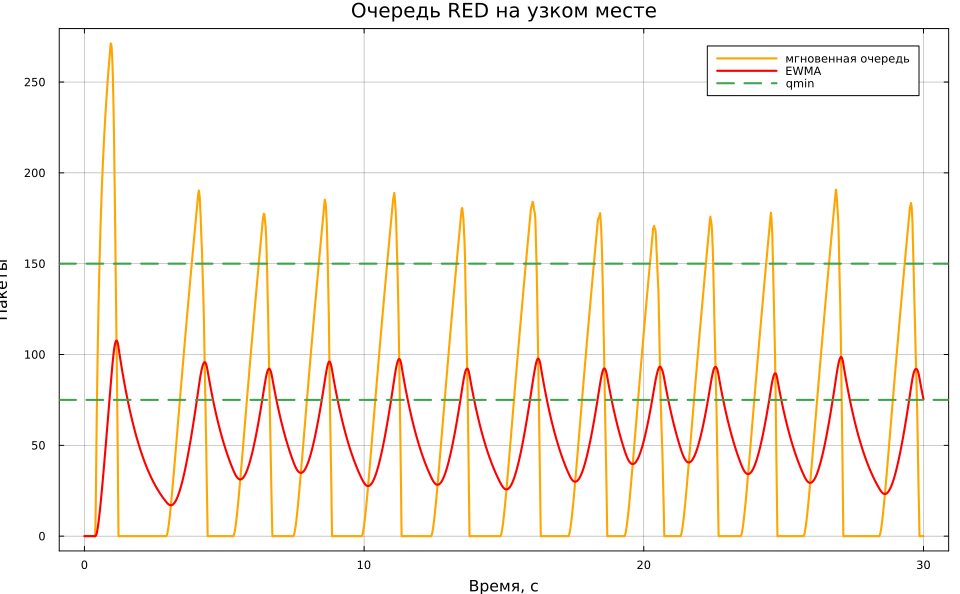
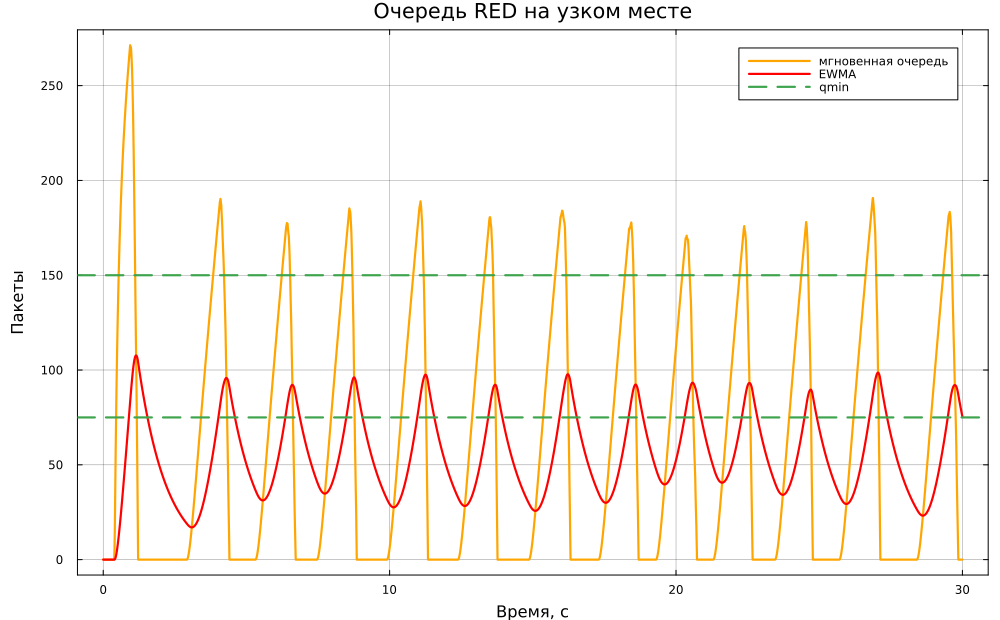
fix(lab04): render executed notebooks and correct plot margins

diff --git a/labs/lab04/project/markdown/01_tcp_red/01_tcp_red.html b/labs/lab04/project/markdown/01_tcp_red/01_tcp_red.html
@@ -7,7 +7,7 @@
 <meta name="viewport" content="width=device-width, initial-scale=1.0, user-scalable=yes">
 
 
-<title>tcp_red</title>
+<title>TCP/Reno и очередь RED</title>
 <style>
 
 span.smallcaps{font-variant: small-caps;}
@@ -2228,7 +2228,7 @@ vertical-align: -.125em;
 
 
 <p><strong>Цель:</strong> исследовать окно перегрузки TCP/Reno и состояние очереди RED в многопоточной сети с узким местом 20 Мбит/с.</p>
-<div id="2" class="cell" data-execution_count="1">
+<div id="cell-2" class="cell" data-quarto-private-1="{&quot;key&quot;:&quot;execution&quot;,&quot;value&quot;:{&quot;iopub.execute_input&quot;:&quot;2026-08-31T09:40:03.998000Z&quot;,&quot;iopub.status.busy&quot;:&quot;2026-08-31T09:40:03.994000Z&quot;,&quot;iopub.status.idle&quot;:&quot;2026-08-31T09:40:21.037000Z&quot;,&quot;shell.execute_reply&quot;:&quot;2026-08-31T09:40:21.037000Z&quot;}}" data-execution_count="1">
 <div class="code-copy-outer-scaffold"><div class="sourceCode cell-code" id="cb1"><pre class="sourceCode julia code-with-copy"><code class="sourceCode julia"><span id="cb1-1"><a href="#cb1-1" aria-hidden="true" tabindex="-1"></a><span class="im">using</span> <span class="bu">DrWatson</span></span>
 <span id="cb1-2"><a href="#cb1-2" aria-hidden="true" tabindex="-1"></a><span class="pp">@quickactivate</span> <span class="st">&quot;project&quot;</span></span>
 <span id="cb1-3"><a href="#cb1-3" aria-hidden="true" tabindex="-1"></a><span class="cn">ENV</span>[<span class="st">&quot;GKSwstype&quot;</span>] <span class="op">=</span> <span class="st">&quot;100&quot;</span></span>
@@ -2260,65 +2260,53 @@ vertical-align: -.125em;
 <span id="cb1-29"><a href="#cb1-29" aria-hidden="true" tabindex="-1"></a><span class="fu">println</span>(<span class="st">&quot;Потоков: </span><span class="sc">$</span>(network.flows)<span class="st">, узкое место: </span><span class="sc">$</span>(network.capacity_bps<span class="op">/</span><span class="fl">1e6</span>)<span class="st"> Мбит/с&quot;</span>)</span>
 <span id="cb1-30"><a href="#cb1-30" aria-hidden="true" tabindex="-1"></a><span class="fu">show</span>(summary; allrows<span class="op">=</span><span class="cn">true</span>, allcols<span class="op">=</span><span class="cn">true</span>); <span class="fu">println</span>()</span>
 <span id="cb1-31"><a href="#cb1-31" aria-hidden="true" tabindex="-1"></a></span>
-<span id="cb1-32"><a href="#cb1-32" aria-hidden="true" tabindex="-1"></a><span class="fu">default</span>(fontfamily<span class="op">=</span><span class="st">&quot;DejaVu Sans&quot;</span>, linewidth<span class="op">=</span><span class="fl">2.2</span>, framestyle<span class="op">=:</span>box, gridalpha<span class="op">=</span><span class="fl">0.22</span>)</span>
-<span id="cb1-33"><a href="#cb1-33" aria-hidden="true" tabindex="-1"></a>p1 <span class="op">=</span> <span class="fu">plot</span>(trajectory.time, trajectory.cwnd_first; label<span class="op">=</span><span class="st">&quot;первый поток&quot;</span>,</span>
-<span id="cb1-34"><a href="#cb1-34" aria-hidden="true" tabindex="-1"></a>    xlabel<span class="op">=</span><span class="st">&quot;Время, с&quot;</span>, ylabel<span class="op">=</span><span class="st">&quot;cwnd, пакеты&quot;</span>, title<span class="op">=</span><span class="st">&quot;Окно перегрузки TCP/Reno&quot;</span>,</span>
-<span id="cb1-35"><a href="#cb1-35" aria-hidden="true" tabindex="-1"></a>    size<span class="op">=</span>(<span class="fl">1000</span>,<span class="fl">620</span>), color<span class="op">=:</span>blue)</span>
-<span id="cb1-36"><a href="#cb1-36" aria-hidden="true" tabindex="-1"></a><span class="fu">plot!</span>(p1, trajectory.time, trajectory.cwnd_mean; label<span class="op">=</span><span class="st">&quot;среднее по потокам&quot;</span>, color<span class="op">=:</span>black)</span>
-<span id="cb1-37"><a href="#cb1-37" aria-hidden="true" tabindex="-1"></a><span class="fu">savefig</span>(p1, <span class="fu">plotsdir</span>(name, <span class="st">&quot;cwnd.png&quot;</span>))</span>
-<span id="cb1-38"><a href="#cb1-38" aria-hidden="true" tabindex="-1"></a></span>
-<span id="cb1-39"><a href="#cb1-39" aria-hidden="true" tabindex="-1"></a>p2 <span class="op">=</span> <span class="fu">plot</span>(trajectory.time, trajectory.queue; label<span class="op">=</span><span class="st">&quot;мгновенная очередь&quot;</span>,</span>
-<span id="cb1-40"><a href="#cb1-40" aria-hidden="true" tabindex="-1"></a>    xlabel<span class="op">=</span><span class="st">&quot;Время, с&quot;</span>, ylabel<span class="op">=</span><span class="st">&quot;Пакеты&quot;</span>, title<span class="op">=</span><span class="st">&quot;Очередь RED на узком месте&quot;</span>,</span>
-<span id="cb1-41"><a href="#cb1-41" aria-hidden="true" tabindex="-1"></a>    size<span class="op">=</span>(<span class="fl">1000</span>,<span class="fl">620</span>), color<span class="op">=:</span>orange)</span>
-<span id="cb1-42"><a href="#cb1-42" aria-hidden="true" tabindex="-1"></a><span class="fu">plot!</span>(p2, trajectory.time, trajectory.average_queue; label<span class="op">=</span><span class="st">&quot;EWMA&quot;</span>, color<span class="op">=:</span>red)</span>
-<span id="cb1-43"><a href="#cb1-43" aria-hidden="true" tabindex="-1"></a><span class="fu">hline!</span>(p2, [red.qmin, red.qmax]; label<span class="op">=</span>[<span class="st">&quot;qmin&quot;</span> <span class="st">&quot;qmax&quot;</span>], linestyle<span class="op">=:</span>dash)</span>
-<span id="cb1-44"><a href="#cb1-44" aria-hidden="true" tabindex="-1"></a><span class="fu">savefig</span>(p2, <span class="fu">plotsdir</span>(name, <span class="st">&quot;red_queue.png&quot;</span>))</span>
-<span id="cb1-45"><a href="#cb1-45" aria-hidden="true" tabindex="-1"></a></span>
-<span id="cb1-46"><a href="#cb1-46" aria-hidden="true" tabindex="-1"></a>p3 <span class="op">=</span> <span class="fu">plot</span>(trajectory.time, trajectory.drop_probability; label<span class="op">=</span><span class="st">&quot;p(t)&quot;</span>,</span>
-<span id="cb1-47"><a href="#cb1-47" aria-hidden="true" tabindex="-1"></a>    xlabel<span class="op">=</span><span class="st">&quot;Время, с&quot;</span>, ylabel<span class="op">=</span><span class="st">&quot;Вероятность&quot;</span>, title<span class="op">=</span><span class="st">&quot;Вероятность раннего сброса RED&quot;</span>,</span>
-<span id="cb1-48"><a href="#cb1-48" aria-hidden="true" tabindex="-1"></a>    size<span class="op">=</span>(<span class="fl">1000</span>,<span class="fl">620</span>), color<span class="op">=:</span>purple)</span>
-<span id="cb1-49"><a href="#cb1-49" aria-hidden="true" tabindex="-1"></a><span class="fu">savefig</span>(p3, <span class="fu">plotsdir</span>(name, <span class="st">&quot;drop_probability.png&quot;</span>))</span>
-<span id="cb1-50"><a href="#cb1-50" aria-hidden="true" tabindex="-1"></a></span>
-<span id="cb1-51"><a href="#cb1-51" aria-hidden="true" tabindex="-1"></a>p4 <span class="op">=</span> <span class="fu">plot</span>(trajectory.time, trajectory.throughput_mbps; label<span class="op">=</span><span class="st">&quot;пропускная способность&quot;</span>,</span>
-<span id="cb1-52"><a href="#cb1-52" aria-hidden="true" tabindex="-1"></a>    xlabel<span class="op">=</span><span class="st">&quot;Время, с&quot;</span>, ylabel<span class="op">=</span><span class="st">&quot;Мбит/с&quot;</span>, title<span class="op">=</span><span class="st">&quot;Использование узкого места&quot;</span>,</span>
-<span id="cb1-53"><a href="#cb1-53" aria-hidden="true" tabindex="-1"></a>    size<span class="op">=</span>(<span class="fl">1000</span>,<span class="fl">620</span>), color<span class="op">=:</span>green)</span>
-<span id="cb1-54"><a href="#cb1-54" aria-hidden="true" tabindex="-1"></a><span class="fu">hline!</span>(p4, [network.capacity_bps<span class="op">/</span><span class="fl">1e6</span>]; label<span class="op">=</span><span class="st">&quot;20 Мбит/с&quot;</span>, linestyle<span class="op">=:</span>dash, color<span class="op">=:</span>black)</span>
-<span id="cb1-55"><a href="#cb1-55" aria-hidden="true" tabindex="-1"></a><span class="fu">savefig</span>(p4, <span class="fu">plotsdir</span>(name, <span class="st">&quot;throughput.png&quot;</span>))</span></code></pre></div><button title="Copy to Clipboard" class="code-copy-button"><i class="bi"></i></button></div>
+<span id="cb1-32"><a href="#cb1-32" aria-hidden="true" tabindex="-1"></a><span class="fu">default</span>(fontfamily<span class="op">=</span><span class="st">&quot;DejaVu Sans&quot;</span>, linewidth<span class="op">=</span><span class="fl">2.2</span>, framestyle<span class="op">=:</span>box, gridalpha<span class="op">=</span><span class="fl">0.22</span>,</span>
+<span id="cb1-33"><a href="#cb1-33" aria-hidden="true" tabindex="-1"></a>    left_margin<span class="op">=</span><span class="fl">5</span> <span class="op">*</span> Plots.mm)</span>
+<span id="cb1-34"><a href="#cb1-34" aria-hidden="true" tabindex="-1"></a>p1 <span class="op">=</span> <span class="fu">plot</span>(trajectory.time, trajectory.cwnd_first; label<span class="op">=</span><span class="st">&quot;первый поток&quot;</span>,</span>
+<span id="cb1-35"><a href="#cb1-35" aria-hidden="true" tabindex="-1"></a>    xlabel<span class="op">=</span><span class="st">&quot;Время, с&quot;</span>, ylabel<span class="op">=</span><span class="st">&quot;cwnd, пакеты&quot;</span>, title<span class="op">=</span><span class="st">&quot;Окно перегрузки TCP/Reno&quot;</span>,</span>
+<span id="cb1-36"><a href="#cb1-36" aria-hidden="true" tabindex="-1"></a>    size<span class="op">=</span>(<span class="fl">1000</span>,<span class="fl">620</span>), color<span class="op">=:</span>blue)</span>
+<span id="cb1-37"><a href="#cb1-37" aria-hidden="true" tabindex="-1"></a><span class="fu">plot!</span>(p1, trajectory.time, trajectory.cwnd_mean; label<span class="op">=</span><span class="st">&quot;среднее по потокам&quot;</span>, color<span class="op">=:</span>black)</span>
+<span id="cb1-38"><a href="#cb1-38" aria-hidden="true" tabindex="-1"></a><span class="fu">savefig</span>(p1, <span class="fu">plotsdir</span>(name, <span class="st">&quot;cwnd.png&quot;</span>))</span>
+<span id="cb1-39"><a href="#cb1-39" aria-hidden="true" tabindex="-1"></a></span>
+<span id="cb1-40"><a href="#cb1-40" aria-hidden="true" tabindex="-1"></a>p2 <span class="op">=</span> <span class="fu">plot</span>(trajectory.time, trajectory.queue; label<span class="op">=</span><span class="st">&quot;мгновенная очередь&quot;</span>,</span>
+<span id="cb1-41"><a href="#cb1-41" aria-hidden="true" tabindex="-1"></a>    xlabel<span class="op">=</span><span class="st">&quot;Время, с&quot;</span>, ylabel<span class="op">=</span><span class="st">&quot;Пакеты&quot;</span>, title<span class="op">=</span><span class="st">&quot;Очередь RED на узком месте&quot;</span>,</span>
+<span id="cb1-42"><a href="#cb1-42" aria-hidden="true" tabindex="-1"></a>    size<span class="op">=</span>(<span class="fl">1000</span>,<span class="fl">620</span>), color<span class="op">=:</span>orange)</span>
+<span id="cb1-43"><a href="#cb1-43" aria-hidden="true" tabindex="-1"></a><span class="fu">plot!</span>(p2, trajectory.time, trajectory.average_queue; label<span class="op">=</span><span class="st">&quot;EWMA&quot;</span>, color<span class="op">=:</span>red)</span>
+<span id="cb1-44"><a href="#cb1-44" aria-hidden="true" tabindex="-1"></a><span class="fu">hline!</span>(p2, [red.qmin, red.qmax]; label<span class="op">=</span>[<span class="st">&quot;qmin&quot;</span> <span class="st">&quot;qmax&quot;</span>], linestyle<span class="op">=:</span>dash)</span>
+<span id="cb1-45"><a href="#cb1-45" aria-hidden="true" tabindex="-1"></a><span class="fu">savefig</span>(p2, <span class="fu">plotsdir</span>(name, <span class="st">&quot;red_queue.png&quot;</span>))</span>
+<span id="cb1-46"><a href="#cb1-46" aria-hidden="true" tabindex="-1"></a></span>
+<span id="cb1-47"><a href="#cb1-47" aria-hidden="true" tabindex="-1"></a>p3 <span class="op">=</span> <span class="fu">plot</span>(trajectory.time, trajectory.drop_probability; label<span class="op">=</span><span class="st">&quot;p(t)&quot;</span>,</span>
+<span id="cb1-48"><a href="#cb1-48" aria-hidden="true" tabindex="-1"></a>    xlabel<span class="op">=</span><span class="st">&quot;Время, с&quot;</span>, ylabel<span class="op">=</span><span class="st">&quot;Вероятность&quot;</span>, title<span class="op">=</span><span class="st">&quot;Вероятность раннего сброса RED&quot;</span>,</span>
+<span id="cb1-49"><a href="#cb1-49" aria-hidden="true" tabindex="-1"></a>    size<span class="op">=</span>(<span class="fl">1000</span>,<span class="fl">620</span>), color<span class="op">=:</span>purple)</span>
+<span id="cb1-50"><a href="#cb1-50" aria-hidden="true" tabindex="-1"></a><span class="fu">savefig</span>(p3, <span class="fu">plotsdir</span>(name, <span class="st">&quot;drop_probability.png&quot;</span>))</span>
+<span id="cb1-51"><a href="#cb1-51" aria-hidden="true" tabindex="-1"></a></span>
+<span id="cb1-52"><a href="#cb1-52" aria-hidden="true" tabindex="-1"></a>p4 <span class="op">=</span> <span class="fu">plot</span>(trajectory.time, trajectory.throughput_mbps; label<span class="op">=</span><span class="st">&quot;пропускная способность&quot;</span>,</span>
+<span id="cb1-53"><a href="#cb1-53" aria-hidden="true" tabindex="-1"></a>    xlabel<span class="op">=</span><span class="st">&quot;Время, с&quot;</span>, ylabel<span class="op">=</span><span class="st">&quot;Мбит/с&quot;</span>, title<span class="op">=</span><span class="st">&quot;Использование узкого места&quot;</span>,</span>
+<span id="cb1-54"><a href="#cb1-54" aria-hidden="true" tabindex="-1"></a>    size<span class="op">=</span>(<span class="fl">1000</span>,<span class="fl">620</span>), color<span class="op">=:</span>green)</span>
+<span id="cb1-55"><a href="#cb1-55" aria-hidden="true" tabindex="-1"></a><span class="fu">hline!</span>(p4, [network.capacity_bps<span class="op">/</span><span class="fl">1e6</span>]; label<span class="op">=</span><span class="st">&quot;20 Мбит/с&quot;</span>, linestyle<span class="op">=:</span>dash, color<span class="op">=:</span>black)</span>
+<span id="cb1-56"><a href="#cb1-56" aria-hidden="true" tabindex="-1"></a><span class="fu">savefig</span>(p4, <span class="fu">plotsdir</span>(name, <span class="st">&quot;throughput.png&quot;</span>))</span></code></pre></div><button title="Copy to Clipboard" class="code-copy-button"><i class="bi"></i></button></div>
 <div class="cell-output cell-output-stdout">
 <div class="ansi-escaped-output">
-<pre><span class="ansi-bright-green-fg ansi-bold">Precompiling</span> DrWatson...
-    255.8 ms<span class="ansi-green-fg">  ✓ </span><span class="ansi-bright-black-fg">ScopedValues</span>
-   1775.6 ms<span class="ansi-green-fg">  ✓ </span><span class="ansi-bright-black-fg">FileIO</span>
-  12948.1 ms<span class="ansi-green-fg">  ✓ </span><span class="ansi-bright-black-fg">JLD2</span>
-    804.9 ms<span class="ansi-green-fg">  ✓ </span><span class="ansi-bright-black-fg">JLD2 → UnPackExt</span>
-    918.0 ms<span class="ansi-green-fg">  ✓ </span>DrWatson
-  5 dependencies successfully precompiled in 17 seconds. 37 already precompiled.
-<span class="ansi-bright-green-fg ansi-bold">Precompiling</span> DataFrames...
-  15252.3 ms<span class="ansi-green-fg">  ✓ </span><span class="ansi-bright-black-fg">PrettyTables</span>
-  21766.1 ms<span class="ansi-green-fg">  ✓ </span>DataFrames
-  2 dependencies successfully precompiled in 37 seconds. 33 already precompiled.
-<span class="ansi-bright-green-fg ansi-bold">Precompiling</span> Plots...
-    558.2 ms<span class="ansi-green-fg">  ✓ </span><span class="ansi-bright-black-fg">JLFzf</span>
-    793.5 ms<span class="ansi-green-fg">  ✓ </span><span class="ansi-bright-black-fg">UnicodeFun</span>
-   1537.6 ms<span class="ansi-green-fg">  ✓ </span><span class="ansi-bright-black-fg">Latexify</span>
-    379.7 ms<span class="ansi-green-fg">  ✓ </span><span class="ansi-bright-black-fg">Latexify → SparseArraysExt</span>
-   2020.6 ms<span class="ansi-green-fg">  ✓ </span><span class="ansi-bright-black-fg">GR</span>
-  29443.6 ms<span class="ansi-green-fg">  ✓ </span>Plots
-  6 dependencies successfully precompiled in 32 seconds. 161 already precompiled.
-<span class="ansi-bright-green-fg ansi-bold">Precompiling</span> FileIOExt...
-   1923.5 ms<span class="ansi-green-fg">  ✓ </span><span class="ansi-bright-black-fg">Test</span>
-   1875.7 ms<span class="ansi-green-fg">  ✓ </span>Plots → FileIOExt
-  2 dependencies successfully precompiled in 5 seconds. 167 already precompiled.
-=== TCP/Reno + RED: базовый эксперимент ===
+<pre>=== TCP/Reno + RED: базовый эксперимент ===
+
 Потоков: 25, узкое место: 20.0 Мбит/с
+
 <span class="ansi-bold">5×2 DataFrame</span>
+
 <span class="ansi-bold"> Row </span>│<span class="ansi-bold"> metric               </span><span class="ansi-bold"> value    </span>
+
 <span class="ansi-bold">     </span>│<span class="ansi-bright-black-fg"> String               </span><span class="ansi-bright-black-fg"> Float64  </span>
+
 ─────┼────────────────────────────────
+
    1 │ mean_cwnd              24.5234
+
    2 │ mean_queue             58.7519
+
    3 │ mean_average_queue     56.4558
+
    4 │ mean_throughput_mbps   18.7654
+
    5 │ loss_events           446.0
 </pre>
 </div>

diff --git a/labs/lab04/project/markdown/02_flow_scan/02_flow_scan.html b/labs/lab04/project/markdown/02_flow_scan/02_flow_scan.html
@@ -7,7 +7,7 @@
 <meta name="viewport" content="width=device-width, initial-scale=1.0, user-scalable=yes">
 
 
-<title>flow_scan</title>
+<title>Влияние числа TCP-потоков</title>
 <style>
 
 span.smallcaps{font-variant: small-caps;}
@@ -2228,7 +2228,7 @@ vertical-align: -.125em;
 
 
 <p><strong>Цель:</strong> оценить загрузку узкого места и состояние RED при изменении числа конкурентных соединений.</p>
-<div id="2" class="cell" data-execution_count="1">
+<div id="cell-2" class="cell" data-quarto-private-1="{&quot;key&quot;:&quot;execution&quot;,&quot;value&quot;:{&quot;iopub.execute_input&quot;:&quot;2026-08-31T09:40:25.306000Z&quot;,&quot;iopub.status.busy&quot;:&quot;2026-08-31T09:40:25.286000Z&quot;,&quot;iopub.status.idle&quot;:&quot;2026-08-31T09:40:44.834000Z&quot;,&quot;shell.execute_reply&quot;:&quot;2026-08-31T09:40:44.833000Z&quot;}}" data-execution_count="1">
 <div class="code-copy-outer-scaffold"><div class="sourceCode cell-code" id="cb1"><pre class="sourceCode julia code-with-copy"><code class="sourceCode julia"><span id="cb1-1"><a href="#cb1-1" aria-hidden="true" tabindex="-1"></a><span class="im">using</span> <span class="bu">DrWatson</span></span>
 <span id="cb1-2"><a href="#cb1-2" aria-hidden="true" tabindex="-1"></a><span class="pp">@quickactivate</span> <span class="st">&quot;project&quot;</span></span>
 <span id="cb1-3"><a href="#cb1-3" aria-hidden="true" tabindex="-1"></a><span class="cn">ENV</span>[<span class="st">&quot;GKSwstype&quot;</span>] <span class="op">=</span> <span class="st">&quot;100&quot;</span></span>
@@ -2255,31 +2255,43 @@ vertical-align: -.125em;
 <span id="cb1-24"><a href="#cb1-24" aria-hidden="true" tabindex="-1"></a><span class="fu">println</span>(<span class="st">&quot;=== Сканирование числа TCP-потоков ===&quot;</span>)</span>
 <span id="cb1-25"><a href="#cb1-25" aria-hidden="true" tabindex="-1"></a><span class="fu">show</span>(scan; allrows<span class="op">=</span><span class="cn">true</span>, allcols<span class="op">=</span><span class="cn">true</span>); <span class="fu">println</span>()</span>
 <span id="cb1-26"><a href="#cb1-26" aria-hidden="true" tabindex="-1"></a></span>
-<span id="cb1-27"><a href="#cb1-27" aria-hidden="true" tabindex="-1"></a><span class="fu">default</span>(fontfamily<span class="op">=</span><span class="st">&quot;DejaVu Sans&quot;</span>, linewidth<span class="op">=</span><span class="fl">2.3</span>, framestyle<span class="op">=:</span>box, gridalpha<span class="op">=</span><span class="fl">0.22</span>)</span>
-<span id="cb1-28"><a href="#cb1-28" aria-hidden="true" tabindex="-1"></a>p1 <span class="op">=</span> <span class="fu">plot</span>(scan.flows, scan.throughput_mbps; marker<span class="op">=:</span>circle, label<span class="op">=</span><span class="st">&quot;throughput&quot;</span>,</span>
-<span id="cb1-29"><a href="#cb1-29" aria-hidden="true" tabindex="-1"></a>    xlabel<span class="op">=</span><span class="st">&quot;Число потоков&quot;</span>, ylabel<span class="op">=</span><span class="st">&quot;Мбит/с&quot;</span>, title<span class="op">=</span><span class="st">&quot;Загрузка узкого места&quot;</span>,</span>
-<span id="cb1-30"><a href="#cb1-30" aria-hidden="true" tabindex="-1"></a>    size<span class="op">=</span>(<span class="fl">1000</span>,<span class="fl">620</span>))</span>
-<span id="cb1-31"><a href="#cb1-31" aria-hidden="true" tabindex="-1"></a><span class="fu">hline!</span>(p1, [<span class="fl">20.0</span>]; label<span class="op">=</span><span class="st">&quot;ёмкость 20 Мбит/с&quot;</span>, linestyle<span class="op">=:</span>dash, color<span class="op">=:</span>black)</span>
-<span id="cb1-32"><a href="#cb1-32" aria-hidden="true" tabindex="-1"></a><span class="fu">savefig</span>(p1, <span class="fu">plotsdir</span>(name, <span class="st">&quot;flow_throughput.png&quot;</span>))</span>
-<span id="cb1-33"><a href="#cb1-33" aria-hidden="true" tabindex="-1"></a></span>
-<span id="cb1-34"><a href="#cb1-34" aria-hidden="true" tabindex="-1"></a>p2 <span class="op">=</span> <span class="fu">plot</span>(scan.flows, scan.mean_queue; marker<span class="op">=:</span>diamond, label<span class="op">=</span><span class="st">&quot;средняя очередь&quot;</span>,</span>
-<span id="cb1-35"><a href="#cb1-35" aria-hidden="true" tabindex="-1"></a>    xlabel<span class="op">=</span><span class="st">&quot;Число потоков&quot;</span>, ylabel<span class="op">=</span><span class="st">&quot;Пакеты&quot;</span>, title<span class="op">=</span><span class="st">&quot;Очередь при росте конкуренции&quot;</span>,</span>
-<span id="cb1-36"><a href="#cb1-36" aria-hidden="true" tabindex="-1"></a>    size<span class="op">=</span>(<span class="fl">1000</span>,<span class="fl">620</span>), color<span class="op">=:</span>red)</span>
-<span id="cb1-37"><a href="#cb1-37" aria-hidden="true" tabindex="-1"></a><span class="fu">hline!</span>(p2, [red.qmin, red.qmax]; label<span class="op">=</span>[<span class="st">&quot;qmin&quot;</span> <span class="st">&quot;qmax&quot;</span>], linestyle<span class="op">=:</span>dash)</span>
-<span id="cb1-38"><a href="#cb1-38" aria-hidden="true" tabindex="-1"></a><span class="fu">savefig</span>(p2, <span class="fu">plotsdir</span>(name, <span class="st">&quot;flow_queue.png&quot;</span>))</span></code></pre></div><button title="Copy to Clipboard" class="code-copy-button"><i class="bi"></i></button></div>
+<span id="cb1-27"><a href="#cb1-27" aria-hidden="true" tabindex="-1"></a><span class="fu">default</span>(fontfamily<span class="op">=</span><span class="st">&quot;DejaVu Sans&quot;</span>, linewidth<span class="op">=</span><span class="fl">2.3</span>, framestyle<span class="op">=:</span>box, gridalpha<span class="op">=</span><span class="fl">0.22</span>,</span>
+<span id="cb1-28"><a href="#cb1-28" aria-hidden="true" tabindex="-1"></a>    left_margin<span class="op">=</span><span class="fl">5</span> <span class="op">*</span> Plots.mm)</span>
+<span id="cb1-29"><a href="#cb1-29" aria-hidden="true" tabindex="-1"></a>p1 <span class="op">=</span> <span class="fu">plot</span>(scan.flows, scan.throughput_mbps; marker<span class="op">=:</span>circle, label<span class="op">=</span><span class="st">&quot;throughput&quot;</span>,</span>
+<span id="cb1-30"><a href="#cb1-30" aria-hidden="true" tabindex="-1"></a>    xlabel<span class="op">=</span><span class="st">&quot;Число потоков&quot;</span>, ylabel<span class="op">=</span><span class="st">&quot;Мбит/с&quot;</span>, title<span class="op">=</span><span class="st">&quot;Загрузка узкого места&quot;</span>,</span>
+<span id="cb1-31"><a href="#cb1-31" aria-hidden="true" tabindex="-1"></a>    size<span class="op">=</span>(<span class="fl">1000</span>,<span class="fl">620</span>))</span>
+<span id="cb1-32"><a href="#cb1-32" aria-hidden="true" tabindex="-1"></a><span class="fu">hline!</span>(p1, [<span class="fl">20.0</span>]; label<span class="op">=</span><span class="st">&quot;ёмкость 20 Мбит/с&quot;</span>, linestyle<span class="op">=:</span>dash, color<span class="op">=:</span>black)</span>
+<span id="cb1-33"><a href="#cb1-33" aria-hidden="true" tabindex="-1"></a><span class="fu">savefig</span>(p1, <span class="fu">plotsdir</span>(name, <span class="st">&quot;flow_throughput.png&quot;</span>))</span>
+<span id="cb1-34"><a href="#cb1-34" aria-hidden="true" tabindex="-1"></a></span>
+<span id="cb1-35"><a href="#cb1-35" aria-hidden="true" tabindex="-1"></a>p2 <span class="op">=</span> <span class="fu">plot</span>(scan.flows, scan.mean_queue; marker<span class="op">=:</span>diamond, label<span class="op">=</span><span class="st">&quot;средняя очередь&quot;</span>,</span>
+<span id="cb1-36"><a href="#cb1-36" aria-hidden="true" tabindex="-1"></a>    xlabel<span class="op">=</span><span class="st">&quot;Число потоков&quot;</span>, ylabel<span class="op">=</span><span class="st">&quot;Пакеты&quot;</span>, title<span class="op">=</span><span class="st">&quot;Очередь при росте конкуренции&quot;</span>,</span>
+<span id="cb1-37"><a href="#cb1-37" aria-hidden="true" tabindex="-1"></a>    size<span class="op">=</span>(<span class="fl">1000</span>,<span class="fl">620</span>), color<span class="op">=:</span>red)</span>
+<span id="cb1-38"><a href="#cb1-38" aria-hidden="true" tabindex="-1"></a><span class="fu">hline!</span>(p2, [red.qmin, red.qmax]; label<span class="op">=</span>[<span class="st">&quot;qmin&quot;</span> <span class="st">&quot;qmax&quot;</span>], linestyle<span class="op">=:</span>dash)</span>
+<span id="cb1-39"><a href="#cb1-39" aria-hidden="true" tabindex="-1"></a><span class="fu">savefig</span>(p2, <span class="fu">plotsdir</span>(name, <span class="st">&quot;flow_queue.png&quot;</span>))</span></code></pre></div><button title="Copy to Clipboard" class="code-copy-button"><i class="bi"></i></button></div>
 <div class="cell-output cell-output-stdout">
 <div class="ansi-escaped-output">
 <pre>=== Сканирование числа TCP-потоков ===
+
 <span class="ansi-bold">7×5 DataFrame</span>
+
 <span class="ansi-bold"> Row </span>│<span class="ansi-bold"> flows </span><span class="ansi-bold"> throughput_mbps </span><span class="ansi-bold"> mean_queue </span><span class="ansi-bold"> mean_cwnd </span><span class="ansi-bold"> loss_events </span>
+
 <span class="ansi-bold">     </span>│<span class="ansi-bright-black-fg"> Int64 </span><span class="ansi-bright-black-fg"> Float64         </span><span class="ansi-bright-black-fg"> Float64    </span><span class="ansi-bright-black-fg"> Float64   </span><span class="ansi-bright-black-fg"> Int64       </span>
+
 ─────┼────────────────────────────────────────────────────────────
+
    1 │     5          19.7009     38.326    124.019            10
+
    2 │    10          19.6181     45.3713    62.4388           53
+
    3 │    15          18.5747     41.195     39.3207          157
+
    4 │    20          18.45       47.9929    29.6584          277
+
    5 │    25          18.4514     53.3248    23.9354          456
+
    6 │    30          18.7217     63.9456    20.5946          646
+
    7 │    40          18.7592     69.0914    15.6248         1063
 </pre>
 </div>

diff --git a/labs/lab04/CHANGELOG.md b/labs/lab04/CHANGELOG.md
@@ -21,5 +21,6 @@
 - Уточнены упрощения TCP/RED, интервал усреднения и смысл счётчика сигналов потери.
 - Из описания реализации убрана отдельная задержка линии, не заданная в программе.
 - Увеличен левый отступ графиков: подписи осей больше не обрезаются.
+- HTML-страницы экспериментов собираются из выполненных блокнотов без повторного запуска ядра Julia.
 
 [4.0.0]: https://github.com/dakuokkonen1/study-2026-simulation-modeling/releases/tag/v4.0.0
